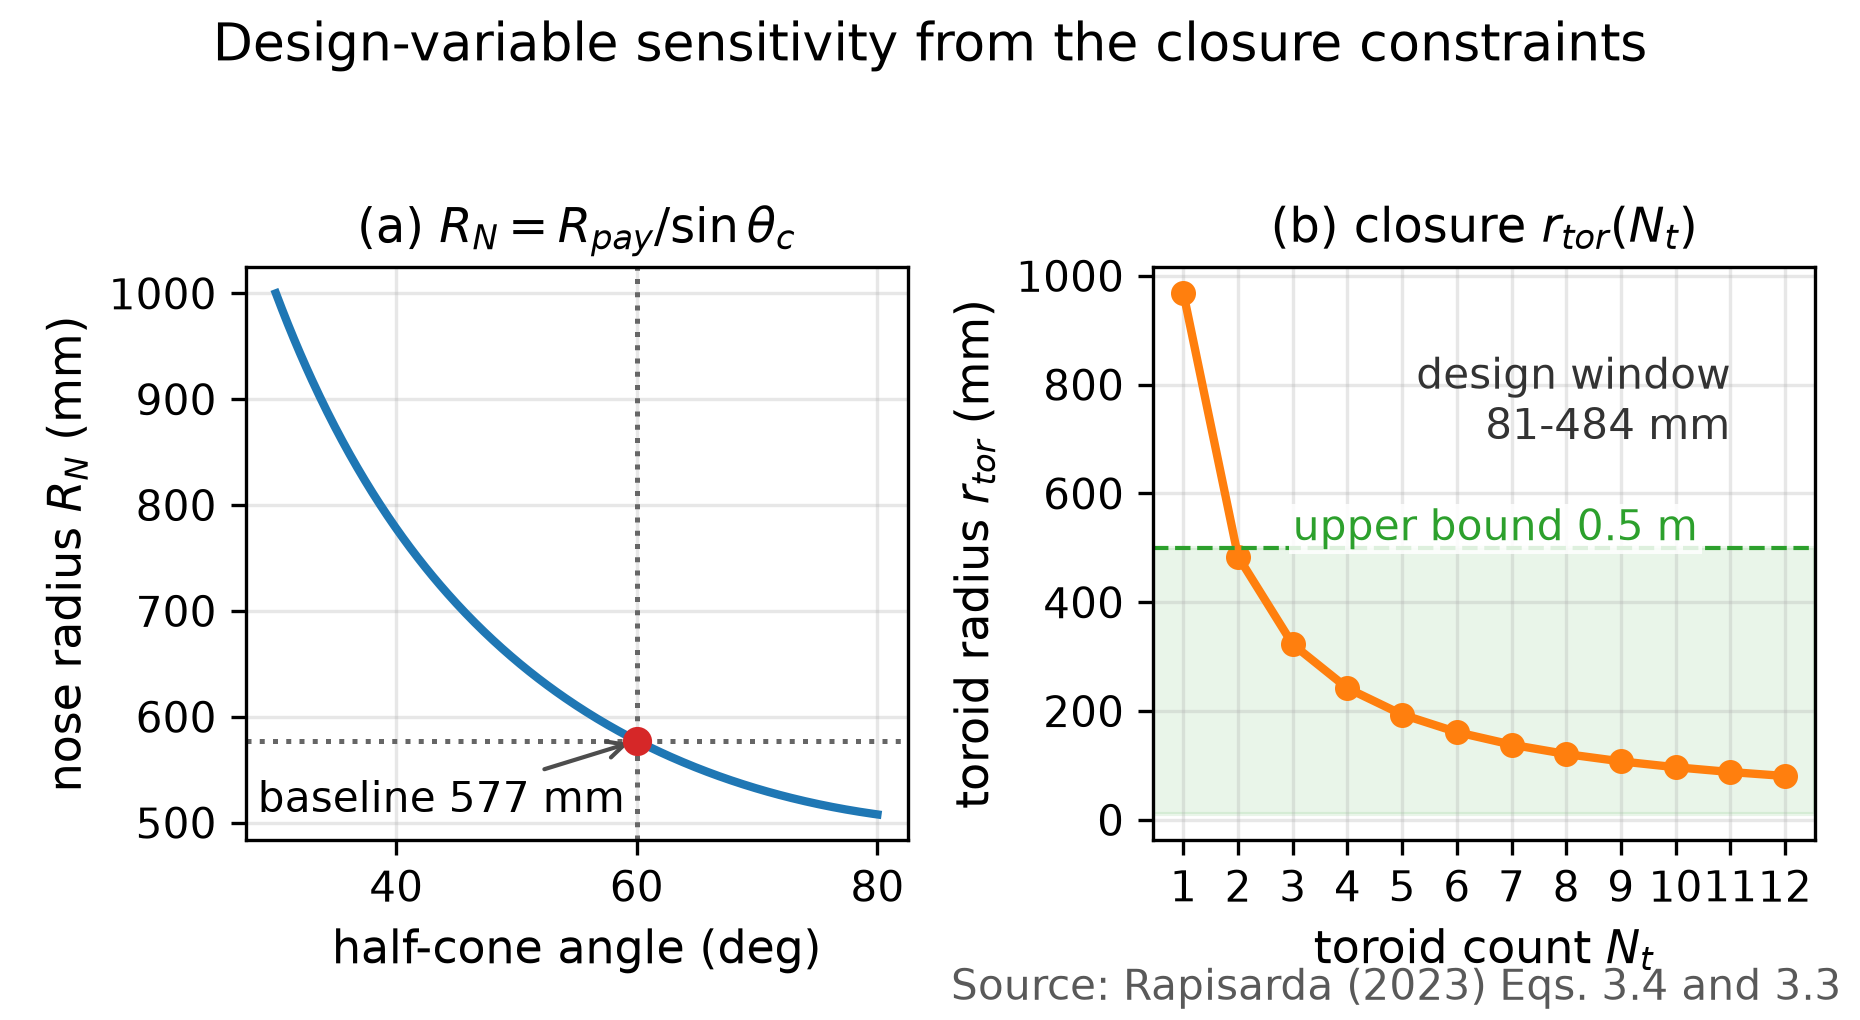
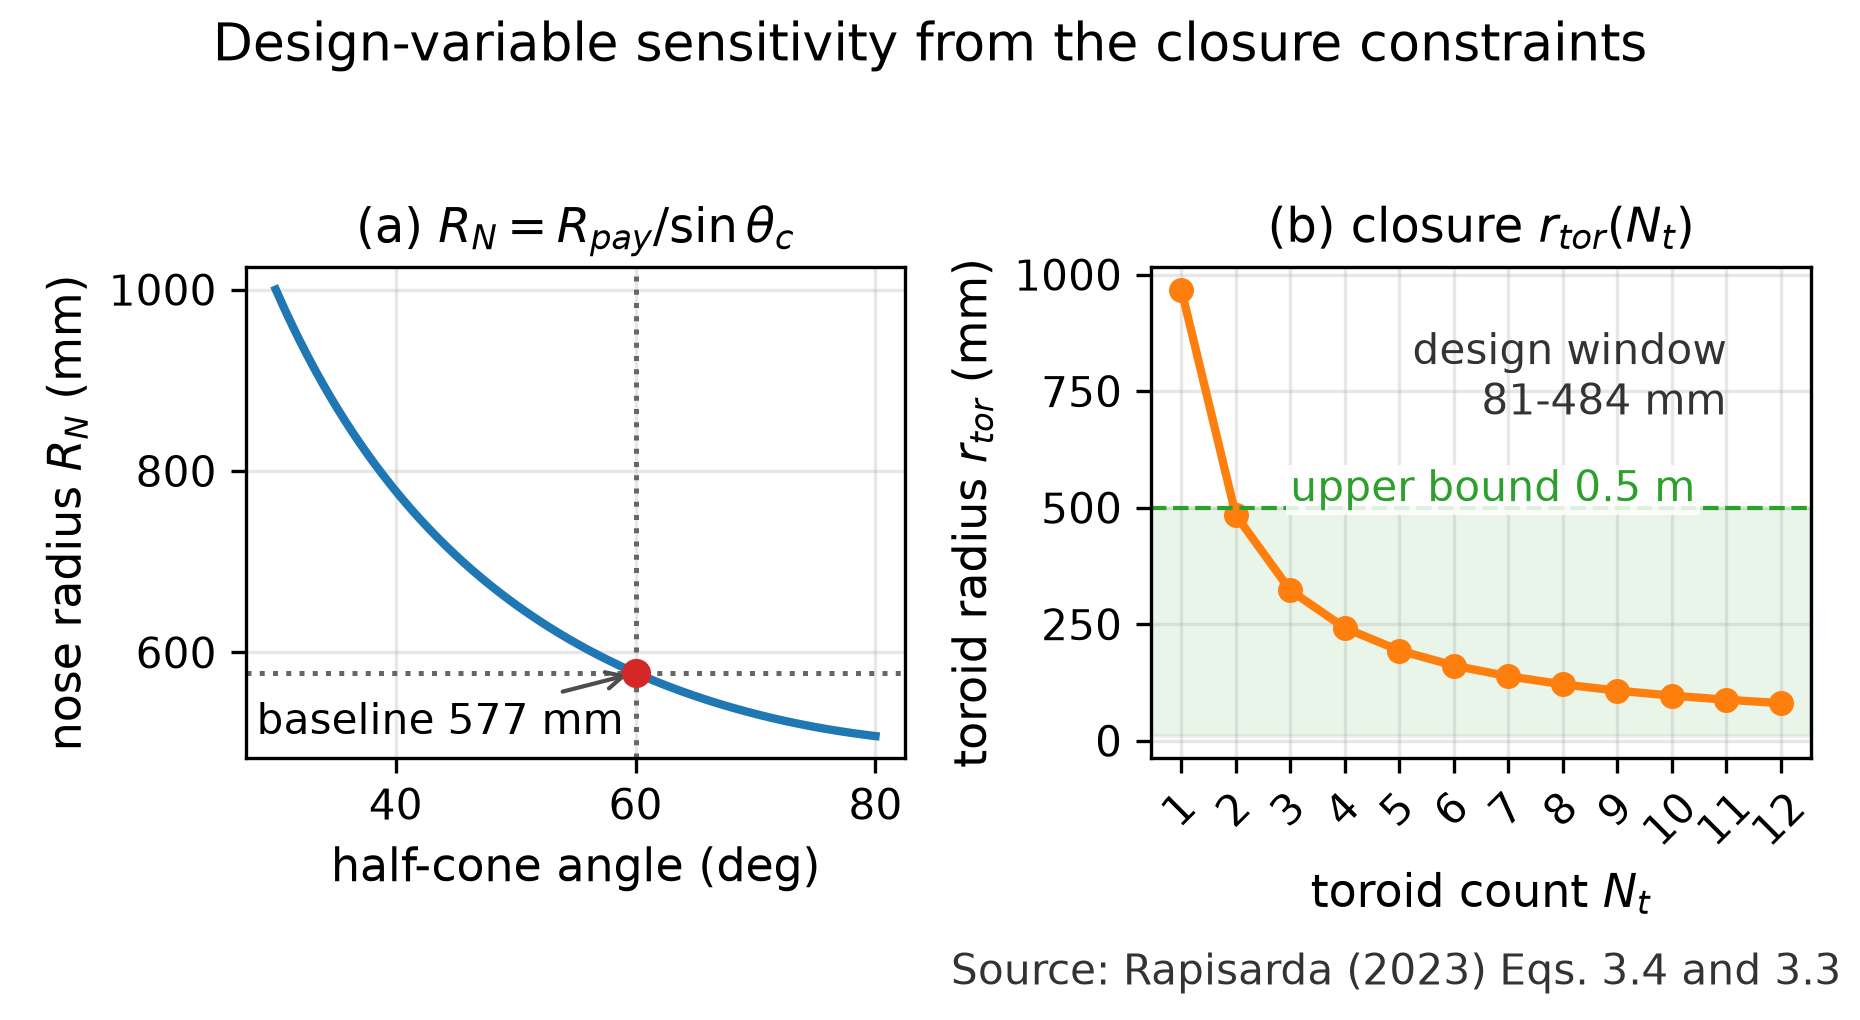
fix(thesis): A6 HIAD design sensitivity 45deg tick rotation + credit contrast

diff --git a/Lost+Found/ProgressReport/CurrentThesisFinalReport/figures/make_hiad_sensitivity.py b/Lost+Found/ProgressReport/CurrentThesisFinalReport/figures/make_hiad_sensitivity.py
@@ -252,15 +252,24 @@ def build_figure() -> matplotlib.figure.Figure:
     ax2.set_ylabel("toroid radius $r_{tor}$ (mm)", fontsize=FONT_BODY)
     ax2.set_title("(b) closure $r_{tor}(N_t)$", fontsize=FONT_BODY + 0.5)
     ax2.set_xticks(n_t)
+    #  A6 MED: 12 integer ticks at FONT_TICK make the double-digit labels
+    #  10/11/12 merge into "101112" (each slot ~0.2 in < label width);
+    #  rotating 45 deg keeps EVERY tick value (no data hiding) while
+    #  giving each label the diagonal room it needs.
+    ax2.tick_params(axis="x", labelrotation=45)
     ax2.grid(True, alpha=0.30)
     ax2.tick_params(labelsize=FONT_TICK)
 
     fig.suptitle("Design-variable sensitivity from the closure constraints",
                  fontsize=FONT_BODY + 1.5)
-    fig.tight_layout(rect=(0, 0, 1, 0.94))
-    fig.text(0.99, 0.01,
+    #  A6 LOW: the source credit was 0.35 gray at y=0.01, i.e. light ink
+    #  0.034 in from the canvas edge; reserve a 0.055 bottom band for the
+    #  rotated ticks and xlabel, darken to 0.20 and lift the credit so it
+    #  clears both the edge and the label band.
+    fig.tight_layout(rect=(0, 0.055, 1, 0.94))
+    fig.text(0.99, 0.025,
              "Source: Rapisarda (2023) Eqs. 3.4 and 3.3",
-             ha="right", va="bottom", fontsize=FONT_TICK, color="0.35")
+             ha="right", va="bottom", fontsize=FONT_TICK, color="0.20")
     return fig
 
 
